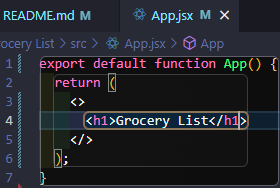
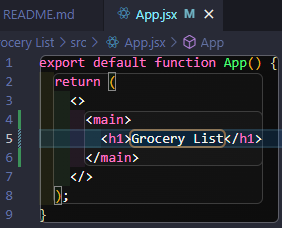
chore: start App code

diff --git a/src/App.jsx b/src/App.jsx
@@ -1,7 +1,9 @@
 export default function App() {
   return (
     <>
-      <h1>Grocery List</h1>
+      <main>
+        <h1>Grocery List</h1>
+      </main>
     </>
   );
 }
